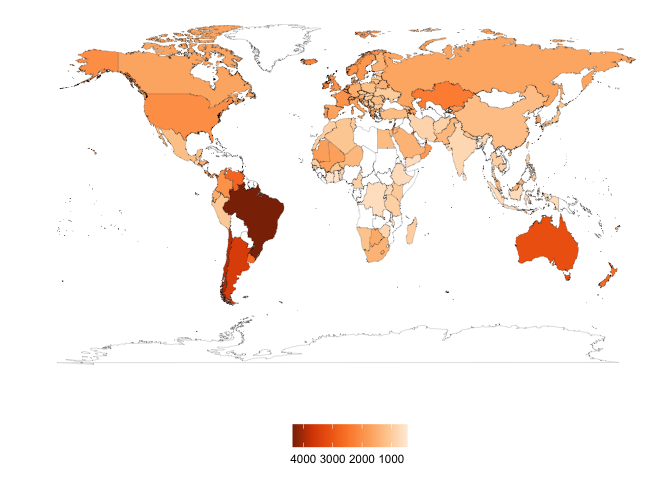
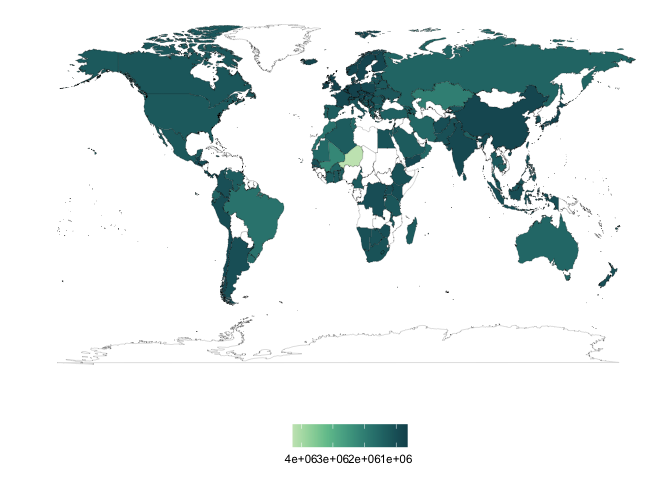
knitted to update companion .md file

diff --git a/analysis/analysis-script.md b/analysis/analysis-script.md
@@ -5,170 +5,15 @@ Analysis and Visualization Script
 
 ``` r
 library(tidyverse)
+library(RColorBrewer)
+library(colorspace)
 ```
 
 ## Data Loading
 
 ``` r
 impact_modeling_data <- read.csv("/Users/kenjinchang/github/university-dining-impact-model/data/impact-modeling-data.csv")
-impact_modeling_data %>%
-  head(6)
 ```
-
-    ##   X     long      lat group order     country isced6_enr isced6_ref_yr
-    ## 1 1 74.89131 37.23164     2    12 Afghanistan     365982          2018
-    ## 2 2 74.84023 37.22505     2    13 Afghanistan     365982          2018
-    ## 3 3 74.76738 37.24917     2    14 Afghanistan     365982          2018
-    ## 4 4 74.73896 37.28564     2    15 Afghanistan     365982          2018
-    ## 5 5 74.72666 37.29072     2    16 Afghanistan     365982          2018
-    ## 6 6 74.66895 37.26670     2    17 Afghanistan     365982          2018
-    ##   isced7_enr isced7_ref_yr isced8_enr isced8_ref_yr natpop_est natpop_ref_yr
-    ## 1       4600          2018         28          2018   38042000          2019
-    ## 2       4600          2018         28          2018   38042000          2019
-    ## 3       4600          2018         28          2018   38042000          2019
-    ## 4       4600          2018         28          2018   38042000          2019
-    ## 5       4600          2018         28          2018   38042000          2019
-    ## 6       4600          2018         28          2018   38042000          2019
-    ##   uni_enr_tot uni_enr_prop baseline_kg_co2e_excl_luc baseline_kg_co2e_total
-    ## 1      370610  0.009742127                  894.9871               898.4078
-    ## 2      370610  0.009742127                  894.9871               898.4078
-    ## 3      370610  0.009742127                  894.9871               898.4078
-    ## 4      370610  0.009742127                  894.9871               898.4078
-    ## 5      370610  0.009742127                  894.9871               898.4078
-    ## 6      370610  0.009742127                  894.9871               898.4078
-    ##   baseline_l_blue_green_wf baseline_l_blue_wf_total baseline_l_green_wf
-    ## 1                  1015577                 347776.8            667799.9
-    ## 2                  1015577                 347776.8            667799.9
-    ## 3                  1015577                 347776.8            667799.9
-    ## 4                  1015577                 347776.8            667799.9
-    ## 5                  1015577                 347776.8            667799.9
-    ## 6                  1015577                 347776.8            667799.9
-    ##   meatless_day_kg_co2e_excl_luc meatless_day_kg_co2e_total
-    ## 1                      1809.934                   1817.495
-    ## 2                      1809.934                   1817.495
-    ## 3                      1809.934                   1817.495
-    ## 4                      1809.934                   1817.495
-    ## 5                      1809.934                   1817.495
-    ## 6                      1809.934                   1817.495
-    ##   meatless_day_l_blue_green_wf meatless_day_l_blue_wf_total
-    ## 1                      1302835                     506810.4
-    ## 2                      1302835                     506810.4
-    ## 3                      1302835                     506810.4
-    ## 4                      1302835                     506810.4
-    ## 5                      1302835                     506810.4
-    ## 6                      1302835                     506810.4
-    ##   meatless_day_l_green_wf no_dairy_kg_co2e_excl_luc no_dairy_kg_co2e_total
-    ## 1                796024.9                  503.0854               508.6838
-    ## 2                796024.9                  503.0854               508.6838
-    ## 3                796024.9                  503.0854               508.6838
-    ## 4                796024.9                  503.0854               508.6838
-    ## 5                796024.9                  503.0854               508.6838
-    ## 6                796024.9                  503.0854               508.6838
-    ##   no_dairy_l_blue_green_wf no_dairy_l_blue_wf_total no_dairy_l_green_wf
-    ## 1                  1298970                 502284.9            796685.3
-    ## 2                  1298970                 502284.9            796685.3
-    ## 3                  1298970                 502284.9            796685.3
-    ## 4                  1298970                 502284.9            796685.3
-    ## 5                  1298970                 502284.9            796685.3
-    ## 6                  1298970                 502284.9            796685.3
-    ##   low_red_meat_kg_co2e_excl_luc low_red_meat_kg_co2e_total
-    ## 1                      1827.645                    1835.41
-    ## 2                      1827.645                    1835.41
-    ## 3                      1827.645                    1835.41
-    ## 4                      1827.645                    1835.41
-    ## 5                      1827.645                    1835.41
-    ## 6                      1827.645                    1835.41
-    ##   low_red_meat_l_blue_green_wf low_red_meat_l_blue_wf_total
-    ## 1                      1377793                     565371.3
-    ## 2                      1377793                     565371.3
-    ## 3                      1377793                     565371.3
-    ## 4                      1377793                     565371.3
-    ## 5                      1377793                     565371.3
-    ## 6                      1377793                     565371.3
-    ##   low_red_meat_l_green_wf no_red_meat_kg_co2e_excl_luc
-    ## 1                  812422                     1946.329
-    ## 2                  812422                     1946.329
-    ## 3                  812422                     1946.329
-    ## 4                  812422                     1946.329
-    ## 5                  812422                     1946.329
-    ## 6                  812422                     1946.329
-    ##   no_red_meat_kg_co2e_total no_red_meat_l_blue_green_wf
-    ## 1                  1954.949                     1288915
-    ## 2                  1954.949                     1288915
-    ## 3                  1954.949                     1288915
-    ## 4                  1954.949                     1288915
-    ## 5                  1954.949                     1288915
-    ## 6                  1954.949                     1288915
-    ##   no_red_meat_l_blue_wf_total no_red_meat_l_green_wf
-    ## 1                    568457.3               720457.5
-    ## 2                    568457.3               720457.5
-    ## 3                    568457.3               720457.5
-    ## 4                    568457.3               720457.5
-    ## 5                    568457.3               720457.5
-    ## 6                    568457.3               720457.5
-    ##   pescetarian_kg_co2e_excl_luc pescetarian_kg_co2e_total
-    ## 1                     879.0195                  881.5167
-    ## 2                     879.0195                  881.5167
-    ## 3                     879.0195                  881.5167
-    ## 4                     879.0195                  881.5167
-    ## 5                     879.0195                  881.5167
-    ## 6                     879.0195                  881.5167
-    ##   pescetarian_l_blue_green_wf pescetarian_l_blue_wf_total
-    ## 1                     1168046                    512937.3
-    ## 2                     1168046                    512937.3
-    ## 3                     1168046                    512937.3
-    ## 4                     1168046                    512937.3
-    ## 5                     1168046                    512937.3
-    ## 6                     1168046                    512937.3
-    ##   pescetarian_l_green_wf lacto_ovo_vegetarian_kg_co2e_excl_luc
-    ## 1               655108.3                              2170.739
-    ## 2               655108.3                              2170.739
-    ## 3               655108.3                              2170.739
-    ## 4               655108.3                              2170.739
-    ## 5               655108.3                              2170.739
-    ## 6               655108.3                              2170.739
-    ##   lacto_ovo_vegetarian_kg_co2e_total lacto_ovo_vegetarian_l_blue_green_wf
-    ## 1                            2178.37                              1308713
-    ## 2                            2178.37                              1308713
-    ## 3                            2178.37                              1308713
-    ## 4                            2178.37                              1308713
-    ## 5                            2178.37                              1308713
-    ## 6                            2178.37                              1308713
-    ##   lacto_ovo_vegetarian_l_blue_wf_total lacto_ovo_vegetarian_l_green_wf
-    ## 1                             594591.9                        714121.1
-    ## 2                             594591.9                        714121.1
-    ## 3                             594591.9                        714121.1
-    ## 4                             594591.9                        714121.1
-    ## 5                             594591.9                        714121.1
-    ## 6                             594591.9                        714121.1
-    ##   X2.3_vegan_kg_co2e_excl_luc X2.3_vegan_kg_co2e_total
-    ## 1                     753.634                 756.1502
-    ## 2                     753.634                 756.1502
-    ## 3                     753.634                 756.1502
-    ## 4                     753.634                 756.1502
-    ## 5                     753.634                 756.1502
-    ## 6                     753.634                 756.1502
-    ##   X2.3_vegan_l_blue_green_wf X2.3_vegan_l_blue_wf_total X2.3_vegan_l_green_wf
-    ## 1                    1181193                   491555.1              689638.3
-    ## 2                    1181193                   491555.1              689638.3
-    ## 3                    1181193                   491555.1              689638.3
-    ## 4                    1181193                   491555.1              689638.3
-    ## 5                    1181193                   491555.1              689638.3
-    ## 6                    1181193                   491555.1              689638.3
-    ##   vegan_kg_co2e_excl_luc vegan_kg_co2e_total vegan_l_blue_green_wf
-    ## 1               255.5508            255.5508               1120862
-    ## 2               255.5508            255.5508               1120862
-    ## 3               255.5508            255.5508               1120862
-    ## 4               255.5508            255.5508               1120862
-    ## 5               255.5508            255.5508               1120862
-    ## 6               255.5508            255.5508               1120862
-    ##   vegan_l_blue_wf_total vegan_l_green_wf
-    ## 1              491242.5         629619.7
-    ## 2              491242.5         629619.7
-    ## 3              491242.5         629619.7
-    ## 4              491242.5         629619.7
-    ## 5              491242.5         629619.7
-    ## 6              491242.5         629619.7
 
 ## Included countries
 
@@ -499,3 +344,17 @@ ggplot(impact_modeling_data,aes(x=long,y=lat,fill=baseline_kg_co2e_total,group=g
 ```
 
 ![](analysis-script_files/figure-gfm/unnamed-chunk-7-1.png)<!-- -->
+
+Comparing per capita water footprint of baseline diet across countries.
+
+``` r
+ggplot(impact_modeling_data,aes(x=long,y=lat,fill=baseline_l_blue_green_wf,group=group)) + 
+  geom_polygon(color="black",linewidth=0.05) + 
+  scale_fill_continuous_sequential(palette="BluGrn",trans="reverse",na.value="white") +
+  labs(fill="") +
+  xlab("") + 
+  ylab("") +
+  theme(legend.position="bottom",panel.grid=element_blank(),panel.background=element_blank(),axis.text=element_blank(),axis.ticks=element_blank())
+```
+
+![](analysis-script_files/figure-gfm/unnamed-chunk-8-1.png)<!-- -->
